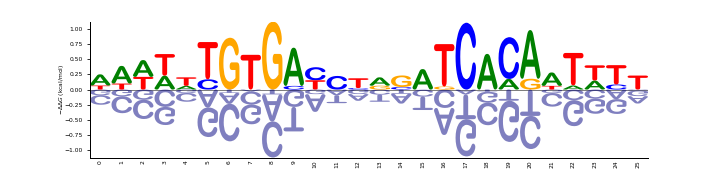
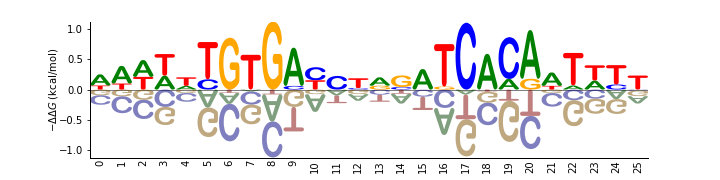
Updating RTD documentation

diff --git a/logomaker/__init__.py b/logomaker/__init__.py
@@ -12,3 +12,37 @@ from logomaker.src.examples import list_example_matrices
 from logomaker.src.examples import get_example_matrix
 from logomaker.src.examples import list_example_datafiles
 from logomaker.src.examples import open_example_datafile
+
+
+# demo functions for logomaker
+def demo(example='crp_energy_matrix'):
+
+    """
+
+    Performs a demonstration of the Logomaker software.
+
+    parameters
+    ----------
+
+    example: (str)
+
+        A string specifying which example matrix to draw logo for. Must be one of
+        the following.
+        [
+            'ars_enrichment_matrix', 'crp_counts_matrix'    , 'crp_energy_matrix'
+            'nn_saliency_matrix'   , 'ss_probability_matrix', 'ww_counts_matrix',
+            'ww_information_matrix'
+        ]
+
+
+    return
+    ------
+
+    None.
+
+    """
+
+    import matplotlib.pyplot as plt
+    df = get_example_matrix(example)
+    Logo(df,font_name='Arial Rounded MT Bold',color_scheme='classic')
+    plt.show()

diff --git a/docs/tutorial.rst b/docs/tutorial.rst
@@ -51,8 +51,8 @@ The advanced styling tutorial notebook introduces some advanced styling function
 Glyph
 -----
 
-The glyphs tutorial notebook shows how Logomaker renders individual characters, or glyphs, and how to customize them.
+The glyph objects tutorial notebook shows how Logomaker renders individual characters, or glyphs, and how to customize them.
 
-- `glyphs <https://github.com/jbkinney/logomaker/blob/master/logomaker/tutorials/6_glyphs.ipynb>`_
+- `glyph objects <https://github.com/jbkinney/logomaker/blob/master/logomaker/tutorials/6_glyph_objects.ipynb>`_
 
 

diff --git a/docs/examples.rst b/docs/examples.rst
@@ -16,8 +16,8 @@ in this section assume that the following packages have been imported in Python 
     import logomaker as lm
 
 
-:math:`\Delta \Delta G` CRP Weight Logo
------------------------------------------
+CRP Energy Logo
+---------------
 
 The following logo shows an energy matrix for the transcription factor CRP. The energy matrix used to make this
 was determined by Kinney *et. al.* in [#sortseq2010]_. The logo uses shading and fading of characters below the x-axis

diff --git a/docs/index.rst b/docs/index.rst
@@ -36,9 +36,7 @@ To run a quick demo of Logomaker, run from within Python::
 
 
    import logomaker as lm
-
-   crp_df = -lm.get_example_matrix('crp_energy_matrix')
-   logo = lm.Logo(crp_df, font_name = 'Arial Rounded MT Bold')
+   lm.demo()
 
 .. image:: _static/CRP_energy_logo.png
 
